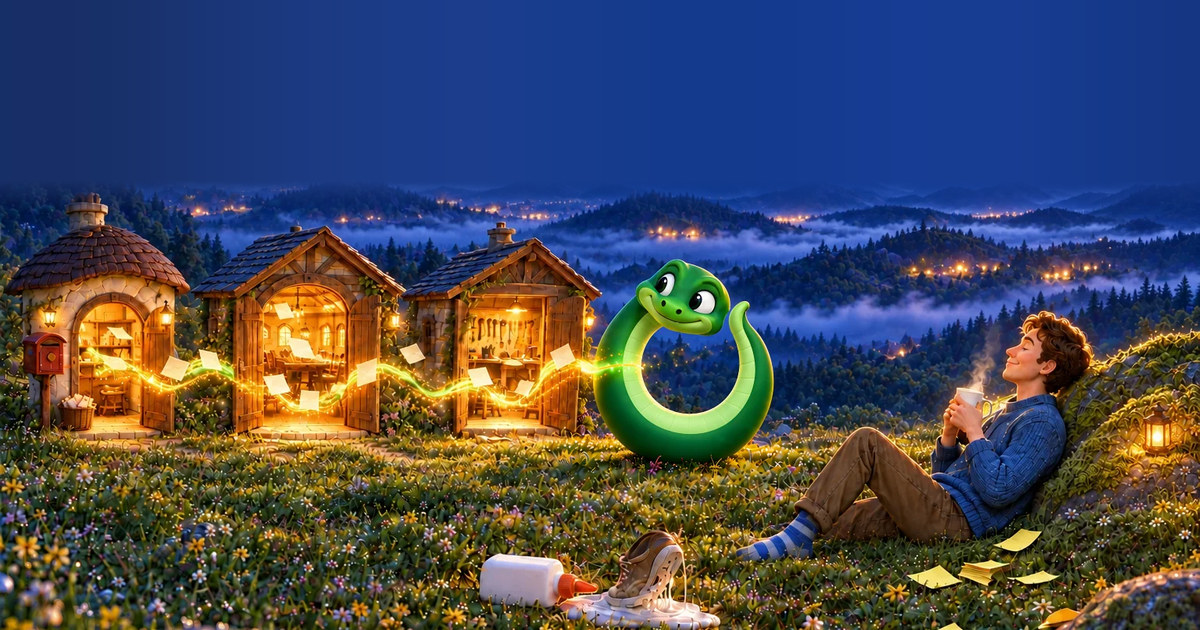
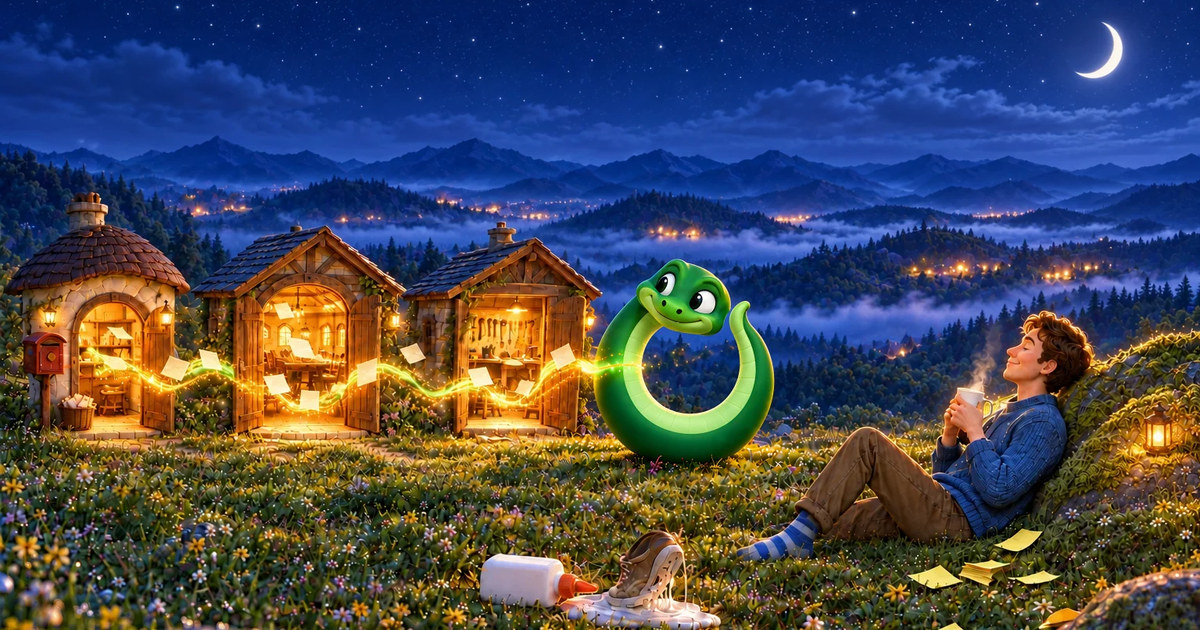
brand: whole-scene cards stand under the scene's real sky, not a gradient band
The 16 og and social cards made from the whole header (ouro-ui-core, playwright-focus-proof, glue-unstuck, friends-relay, light and dark) had a flat sky gradient across their top third. brand/skies/<scene>.webp now holds real sky above each header: the rows above the crop in the scene's lossless master where it is kept, otherwise an outpaint of the header upward. derive.py stacks it above the header and cross-fades 32 shared rows, so every card is all picture.

diff --git a/brand/tools/derive.py b/brand/tools/derive.py
@@ -94,28 +94,30 @@ def crop_centre(im: Image.Image, width: int, centre: int) -> tuple:
     return (left, 0, left + width, im.height)
 
 
-def whole_with_sky(src, cw, ch):
-    """The whole header at the card's width, on the card's foot, with its sky carried up to fill
-    the card: the top rows' colours, smoothed sideways into a soft gradient, fading into the
-    scene's own sky over its top 32 px. Nothing is drawn."""
-    h = round(src.height * cw / src.width)
-    scene = src.resize((cw, h), Image.LANCZOS)
-    pad = ch - h
-    top = scene.crop((0, 0, cw, 24)).resize((cw, 1), Image.BOX)
-    wide = Image.new("RGB", (cw + 800, 1))
-    wide.paste(top.resize((400, 1)).transpose(Image.FLIP_LEFT_RIGHT).crop((0, 0, 400, 1)).resize((400, 1)), (0, 0))
-    wide.paste(top, (400, 0))
-    wide.paste(top.transpose(Image.FLIP_LEFT_RIGHT).crop((cw - 400, 0, cw, 1)), (cw + 400, 0))
-    wide = wide.resize((cw + 800, 8)).filter(ImageFilter.GaussianBlur(120)).crop((400, 4, cw + 400, 5))
-    out = Image.new("RGB", (cw, ch))
-    out.paste(wide.resize((cw, pad + 32), Image.BILINEAR), (0, 0))
-    fade = Image.linear_gradient("L").resize((cw, 32))
-    out.paste(scene, (0, pad))
-    band = wide.resize((cw, 32), Image.BILINEAR)
-    out.paste(band, (0, pad), Image.eval(fade, lambda v: 255 - v))
-    return out, (f"whole scene resized to {cw}x{h} (Lanczos) on the card's foot; the {pad} px above carry the "
-                 "scene's top 24 rows of sky up, averaged per column and blurred sideways (Gaussian radius 120), "
-                 "fading into the scene over its top 32 px")
+SKY_OVERLAP = 32  # rows each brand/skies file shares with the top of its header
+
+
+def whole_with_sky(scene, src, cw, ch, centre):
+    """The whole header with its real sky (brand/skies/<scene>.webp, from the scene's master or an
+    outpaint of it) stacked above, cut to the card's aspect from the foot up and resized. Every
+    pixel is picture: no band, gradient or fade."""
+    sky_rel = f"skies/{scene}.webp"
+    sky = Image.open(BRAND / sky_rel).convert("RGB")
+    overlap = SKY_OVERLAP
+    above = sky.height - overlap
+    tall = Image.new("RGB", (src.width, above + src.height))
+    tall.paste(src, (0, above))
+    # The sky's last rows repeat the header's top rows: cross-fade them so no seam shows.
+    fade = Image.new("L", (src.width, sky.height), 255)
+    fade.paste(Image.linear_gradient("L").rotate(180).resize((src.width, overlap)), (0, above))
+    tall.paste(sky, (0, 0), fade)
+    h = min(tall.height, round(src.width * ch / cw))
+    w = round(h * cw / ch)
+    box = crop_centre(tall, w, centre)
+    box = (box[0], tall.height - h, box[2], tall.height)
+    return tall.crop(box).resize((cw, ch), Image.LANCZOS), (
+        f"the header with {sky_rel} above it, its last {overlap} rows cross-faded into the header's top ({src.width}x{tall.height}), crop box {list(box)} "
+        f"then resize to {cw}x{ch} (Lanczos)"), sky_rel
 
 def crops_for(scene):
     """A scene's crop centres: its own, or for a night scene (<scene>-dark) not in crops.json, its day twin's,
@@ -198,18 +200,20 @@ def build(scenes=()):
 
         # GitHub social preview (1280x640) and Open Graph / Twitter card (1200x630): a window
         # around "wide" (or "og" for the narrower card), or, for a scene whose cast is wider
-        # than either card ("wideFit": "whole"), the whole header with its sky continued above.
+        # than either card ("wideFit": "whole"), the whole header under its real sky (brand/skies/).
         for kind, (cw, ch), centre, use in (
                 ("social", (1280, 640), c["wide"], "GitHub social preview (1280x640)"),
                 ("og", (1200, 630), c.get("og", c["wide"]), "Open Graph and Twitter card (1200x630)")):
+            extra = {}
             if c.get("wideFit") == "whole":
-                im, op = whole_with_sky(src, cw, ch)
+                im, op, sky_rel = whole_with_sky(scene, src, cw, ch, centre)
+                extra = {"alsoFrom": {"file": sky_rel, "sha256": sha((BRAND / sky_rel).read_bytes())}}
             else:
                 box = crop_centre(src, round(src.height * cw / ch), centre)
                 im = src.crop(box).resize((cw, ch), Image.LANCZOS)
                 op = f"crop box {list(box)} then resize to {cw}x{ch} (Lanczos)"
             yield f"{kind}/{scene}.jpg", encode(im, "jpg"), {
-                **base, "use": use, "operation": op, "encoder": ENCODERS["jpg"]}
+                **base, **extra, "use": use, "operation": op, "encoder": ENCODERS["jpg"]}
 
     # Touch and app-manifest icons: the approved rich render on the dawn sky.
     for mark in () if scenes else ("ouro", "ouro-hx"):
